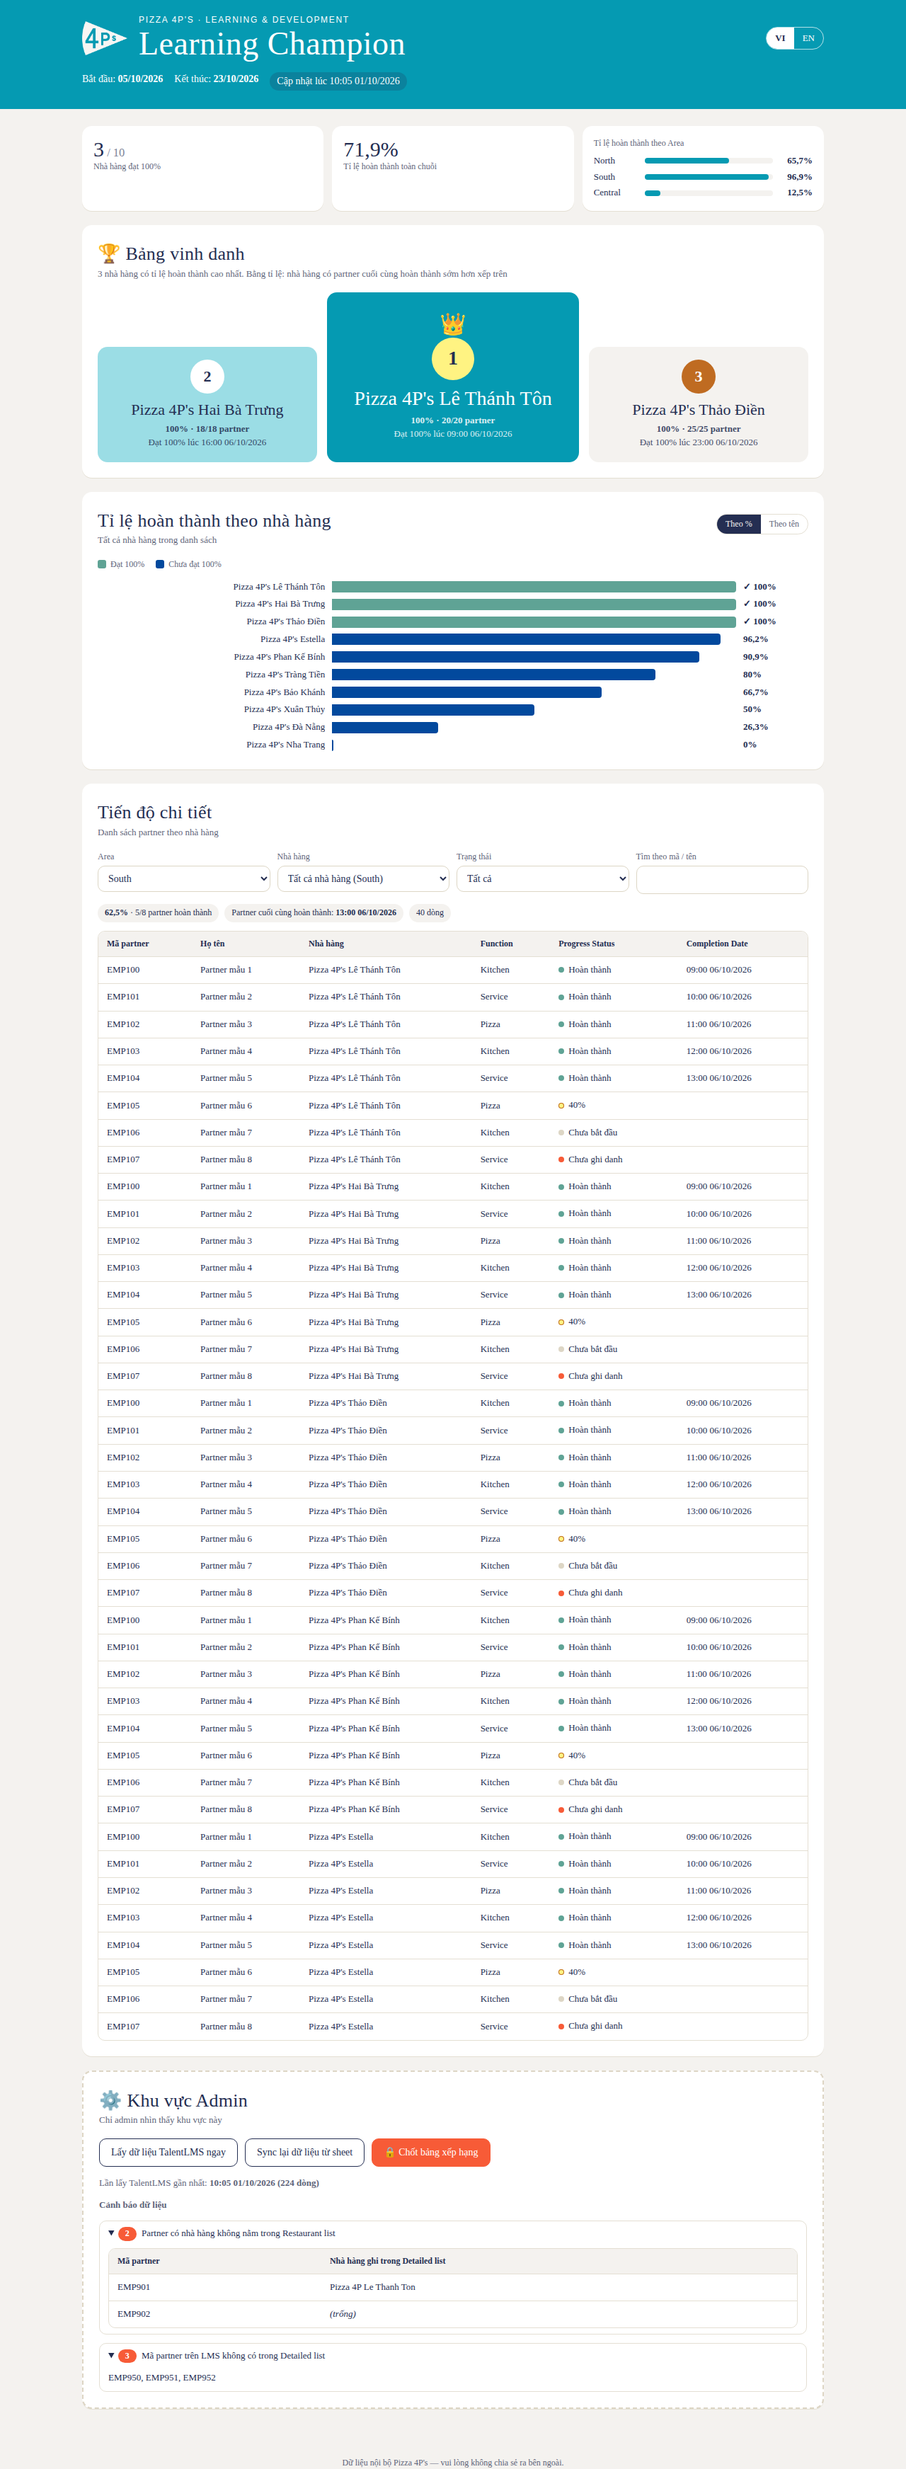
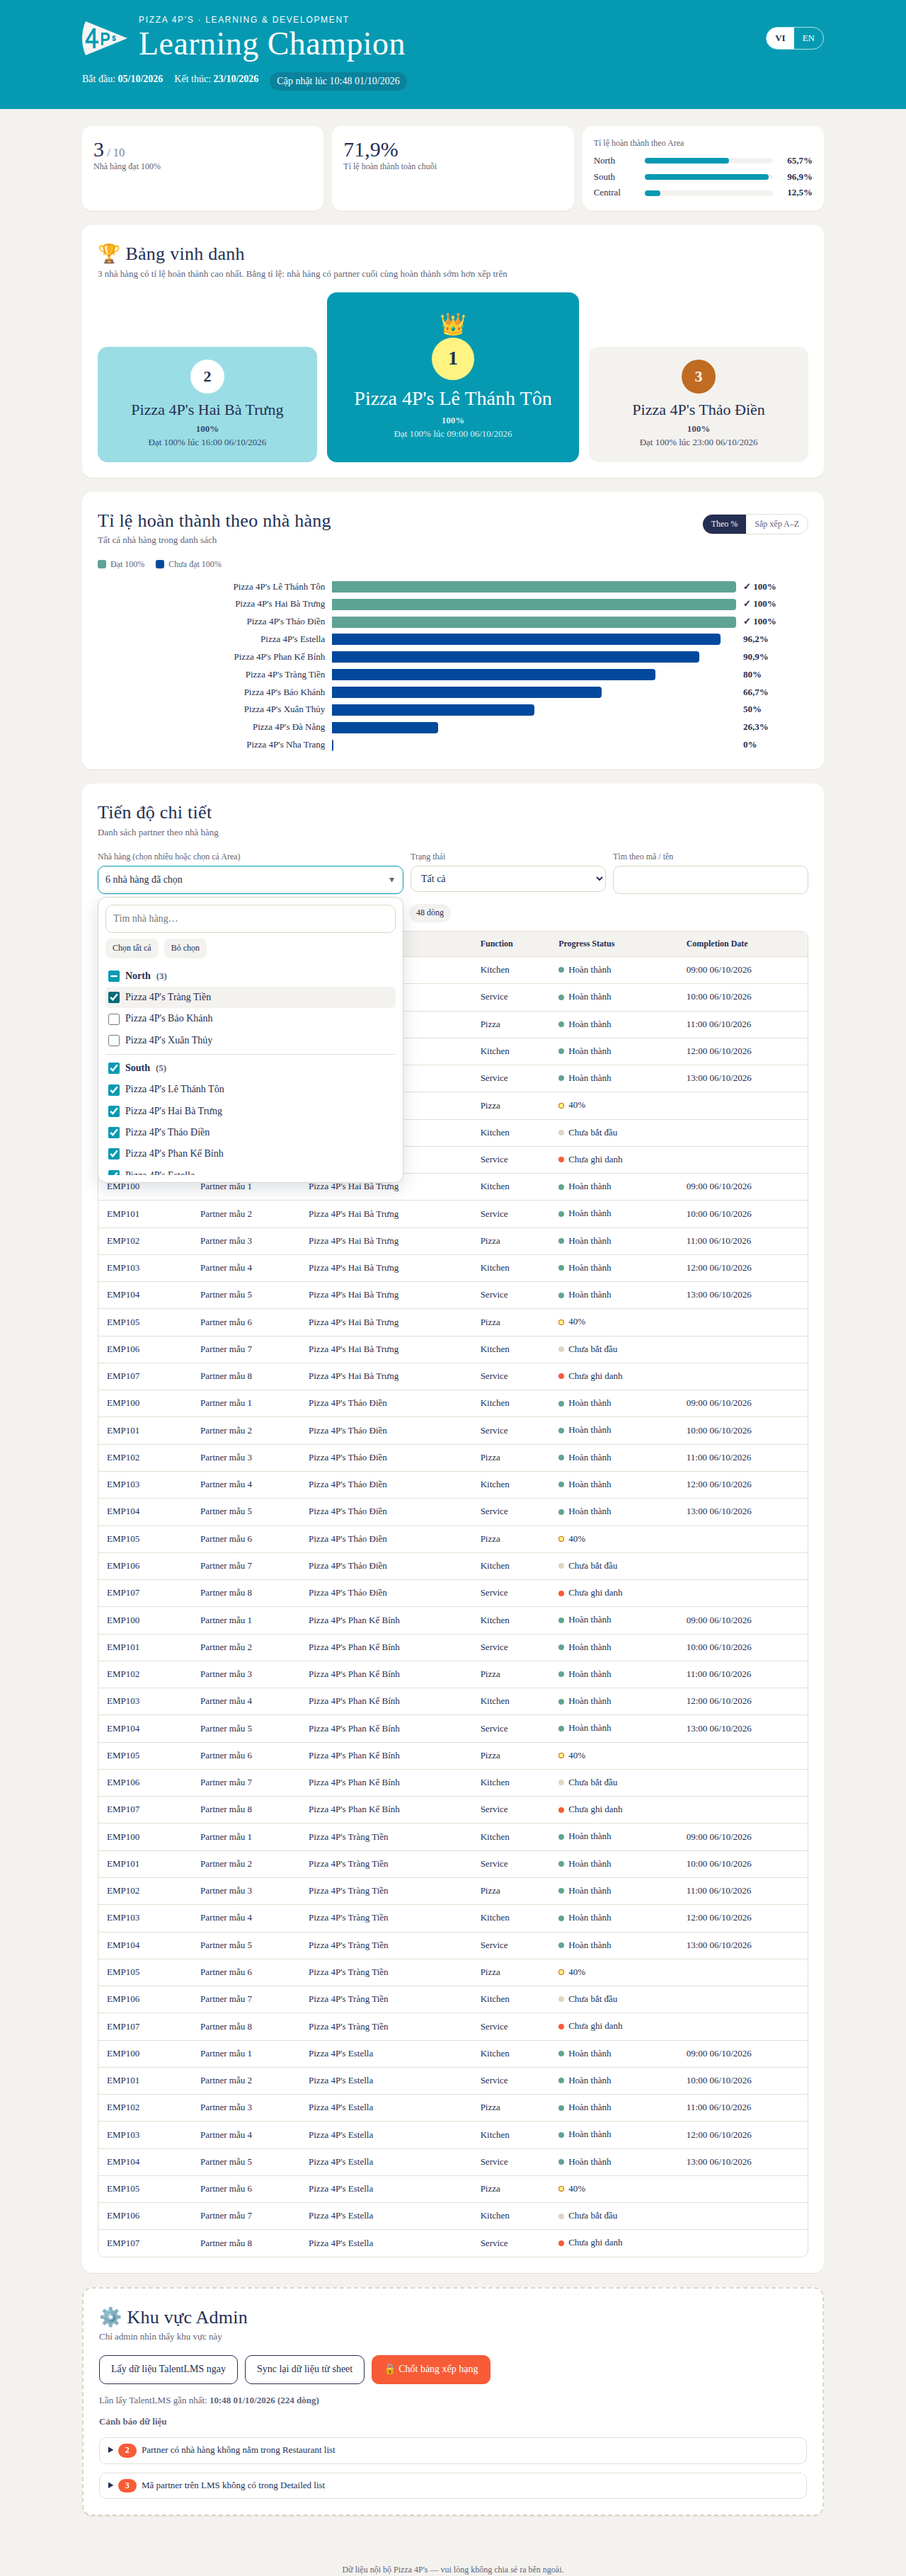
UI: one-line mobile header, % only on podium, A-Z sort label, multi-restaurant picker
- Header title and eyebrow stay on one line on phones; language toggle moves to meta row
- Podium shows completion % and last completion time only
- Chart sort buttons: 'Theo %' / 'Sắp xếp A–Z'
- Detail section: multi-select restaurants grouped by Area (tick an Area to select all its restaurants), search, select all/clear

Claude-Session: https://claude.ai/code/session_01ATpJAqPQi6Zqc39BMgB4D3

diff --git a/apps-script/Index.html b/apps-script/Index.html
@@ -55,6 +55,7 @@
   .head-row { display: flex; align-items: center; gap: 16px; }
   .logo { width: 64px; height: auto; flex: none; }
   .titles { flex: 1; min-width: 0; }
+  .eyebrow, header h1 { white-space: nowrap; overflow: hidden; text-overflow: ellipsis; }
   .eyebrow { font-family: var(--font-eyebrow); font-stretch: normal; font-size: 12px; font-weight: 500; letter-spacing: .14em; text-transform: uppercase; }
   header h1 { font-family: var(--font-title); font-size: clamp(30px, 6vw, 46px); line-height: 1.1; }
   .meta { margin-top: 14px; display: flex; flex-wrap: wrap; gap: 8px 16px; font-size: 14px; font-weight: 500; }
@@ -123,6 +124,25 @@
   .filters { display: flex; flex-wrap: wrap; gap: 10px; margin-bottom: 14px; }
   .filters label { display: flex; flex-direction: column; gap: 4px; font-size: 12px; color: var(--muted); flex: 1 1 200px; }
   select, input[type=search] { font: inherit; font-size: 14px; color: var(--ink); padding: 9px 10px; border: 1px solid var(--sand); border-radius: 10px; background: #fff; width: 100%; }
+  .filters .fld { display: flex; flex-direction: column; gap: 4px; font-size: 12px; color: var(--muted); flex: 2 1 280px; }
+  .ms { position: relative; }
+  .ms summary { list-style: none; cursor: pointer; font-size: 14px; color: var(--ink); padding: 9px 32px 9px 10px; border: 1px solid var(--sand); border-radius: 10px; background: #fff; white-space: nowrap; overflow: hidden; text-overflow: ellipsis; position: relative; }
+  .ms summary::-webkit-details-marker { display: none; }
+  .ms summary::after { content: '▾'; position: absolute; right: 12px; top: 50%; transform: translateY(-50%); color: var(--muted); }
+  .ms[open] summary { border-color: var(--cyan); }
+  .ms-panel { position: absolute; z-index: 5; left: 0; right: 0; top: calc(100% + 4px); min-width: 260px; background: #fff; border: 1px solid var(--sand); border-radius: 12px; box-shadow: 0 8px 24px rgba(36,46,82,.15); padding: 10px; color: var(--ink); }
+  .ms-panel input[type=search] { margin-bottom: 8px; }
+  .ms-actions { display: flex; gap: 8px; margin-bottom: 6px; }
+  .ms-actions button { font: inherit; font-size: 12px; border: 0; background: var(--cream); color: var(--navy); padding: 5px 10px; border-radius: 8px; cursor: pointer; }
+  .ms-list { max-height: 300px; overflow: auto; }
+  .ms-group { padding: 4px 0; border-top: 1px solid var(--line); }
+  .ms-group:first-child { border-top: 0; }
+  .filters .ms-area, .filters .ms-item { display: flex; flex-direction: row; flex: none; align-items: center; gap: 8px; font-size: 14px; color: var(--ink); padding: 5px 4px; cursor: pointer; border-radius: 6px; }
+  .ms-area { font-weight: 600; }
+  .ms-item { padding-left: 26px; }
+  .ms-area:hover, .ms-item:hover { background: var(--cream); }
+  .ms-area input, .ms-item input { width: 16px; height: 16px; accent-color: var(--cyan); margin: 0; flex: none; }
+  .ms-single { font-size: 14px; color: var(--ink); padding: 9px 10px; border: 1px solid var(--sand); border-radius: 10px; background: var(--cream); }
   .chips { display: flex; gap: 8px; flex-wrap: wrap; margin-bottom: 12px; }
   .chip { font-size: 12px; padding: 4px 10px; border-radius: 999px; background: var(--cream); }
   .chip b { font-weight: 600; }
@@ -158,7 +178,14 @@
 
   @media (max-width: 720px) {
     header { padding: 16px 0 20px; }
-    .logo { width: 48px; }
+    .logo { width: 44px; }
+    header .wrap { position: relative; }
+    .head-row { gap: 12px; }
+    .lang { position: absolute; right: 16px; bottom: 0; }
+    .lang button { padding: 5px 10px; }
+    header h1 { font-size: clamp(22px, 8.4vw, 40px); }
+    .eyebrow { font-size: clamp(8.5px, 2.75vw, 12px); letter-spacing: .06em; }
+    .meta { padding-right: 96px; }
     section { padding: 16px; }
     .kpis { grid-template-columns: 1fr 1fr; gap: 8px; }
     .kpi-area { grid-column: span 2; }
@@ -213,10 +240,11 @@
       waitingFinal: 'Không có nhà hàng nào đủ điều kiện vinh danh.',
       reached: 'Đạt 100% lúc', lastAt: 'Partner cuối cùng hoàn thành', rankEmpty: 'Còn trống',
       chartTitle: 'Tỉ lệ hoàn thành theo nhà hàng', chartSub: 'Tất cả nhà hàng trong danh sách',
-      sortPct: 'Theo %', sortName: 'Theo tên', legendFull: 'Đạt 100%', legendPart: 'Chưa đạt 100%',
+      sortPct: 'Theo %', sortName: 'Sắp xếp A–Z', legendFull: 'Đạt 100%', legendPart: 'Chưa đạt 100%',
       partners: 'partner', completedOf: 'hoàn thành', noLast: 'Chưa có partner nào hoàn thành',
       detailTitle: 'Tiến độ chi tiết', detailSub: 'Danh sách partner theo nhà hàng',
-      area: 'Area', allAreas: 'Tất cả Area', restaurant: 'Nhà hàng', allInArea: 'Tất cả nhà hàng',
+      restaurant: 'Nhà hàng', restPick: 'Nhà hàng (chọn nhiều hoặc chọn cả Area)', noArea: 'Khác', allSelected: 'Tất cả nhà hàng', nSelected: 'nhà hàng đã chọn',
+      findRest: 'Tìm nhà hàng…', selectAll: 'Chọn tất cả', clearAll: 'Bỏ chọn', pickHint: 'Chọn một hoặc nhiều nhà hàng (hoặc tích tên Area) để xem danh sách partner.',
       course: 'Khóa học', allCourses: 'Tất cả khóa học', status: 'Trạng thái', all: 'Tất cả',
       stDone: 'Đã hoàn thành', stNot: 'Chưa hoàn thành', search: 'Tìm theo mã / tên', choose: '— Chọn nhà hàng —',
       cCode: 'Mã partner', cName: 'Họ tên', cRest: 'Nhà hàng', cFunc: 'Function', cCourse: 'Khóa học', cStatus: 'Progress Status', cDate: 'Completion Date',
@@ -248,10 +276,11 @@
       waitingFinal: 'No restaurant qualified for the podium.',
       reached: 'Reached 100% at', lastAt: 'Last partner completed', rankEmpty: 'Open',
       chartTitle: 'Completion rate by restaurant', chartSub: 'All restaurants in the list',
-      sortPct: 'By %', sortName: 'By name', legendFull: 'Reached 100%', legendPart: 'Below 100%',
+      sortPct: 'By %', sortName: 'Sort A to Z', legendFull: 'Reached 100%', legendPart: 'Below 100%',
       partners: 'partners', completedOf: 'completed', noLast: 'No partner has completed yet',
       detailTitle: 'Detailed progress', detailSub: 'Partners by restaurant',
-      area: 'Area', allAreas: 'All Areas', restaurant: 'Restaurant', allInArea: 'All restaurants',
+      restaurant: 'Restaurant', restPick: 'Restaurants (pick several or a whole Area)', noArea: 'Other', allSelected: 'All restaurants', nSelected: 'restaurants selected',
+      findRest: 'Find a restaurant…', selectAll: 'Select all', clearAll: 'Clear', pickHint: 'Pick one or more restaurants (or tick an Area) to see the partner list.',
       course: 'Course', allCourses: 'All courses', status: 'Status', all: 'All',
       stDone: 'Completed', stNot: 'Not completed', search: 'Search code / name', choose: '— Select a restaurant —',
       cCode: 'Partner code', cName: 'Name', cRest: 'Restaurant', cFunc: 'Function', cCourse: 'Course', cStatus: 'Progress Status', cDate: 'Completion Date',
@@ -273,13 +302,12 @@
     }
   };
 
-  var ALL = '__all__';
   var lang = 'vi';
   try { lang = localStorage.getItem('lc_lang') || 'vi'; } catch (e) {}
   var DATA = null;
   var chartSort = 'pct';
   var detailCache = {};
-  var detailState = { area: '', restaurant: '', course: '', status: '', q: '' };
+  var detailState = { selected: [], course: '', status: '', q: '' };
 
   function t(k) { return (I18N[lang] && I18N[lang][k]) || I18N.vi[k] || k; }
   function esc(s) { return String(s == null ? '' : s).replace(/[&<>"']/g, function (c) { return { '&': '&amp;', '<': '&lt;', '>': '&gt;', '"': '&quot;', "'": '&#39;' }[c]; }); }
@@ -349,10 +377,9 @@
       var r = d.leaderboard[i - 1];
       var crown = i === 1 ? '<div class="crown" aria-hidden="true">👑</div>' : '';
       if (!r) { cells += '<div class="place r' + i + ' empty">' + crown + '<div class="medal">' + i + '</div><div class="rname">' + t('rankEmpty') + '</div><div class="rstat">&nbsp;</div></div>'; continue; }
-      var counts = hasCounts(r) ? ' · ' + r.completed + '/' + r.total + ' ' + t('partners') : '';
       var stat = r.full
-        ? '<b class="num">100%' + counts + '</b><br>' + t('reached') + ' <span class="num">' + fmtDate(r.lastCompletion, true) + '</span>'
-        : '<b class="num">' + fmtPct(r.pct) + counts + '</b>' + (r.lastCompletion ? '<br>' + t('lastAt') + ' <span class="num">' + fmtDate(r.lastCompletion, true) + '</span>' : '');
+        ? '<b class="num">100%</b><br>' + t('reached') + ' <span class="num">' + fmtDate(r.lastCompletion, true) + '</span>'
+        : '<b class="num">' + fmtPct(r.pct) + '</b>' + (r.lastCompletion ? '<br>' + t('lastAt') + ' <span class="num">' + fmtDate(r.lastCompletion, true) + '</span>' : '');
       cells += '<div class="place r' + i + '">' + crown + '<div class="medal">' + i + '</div><div class="rname">' + esc(r.name) + '</div><div class="rstat">' + stat + '</div></div>';
     }
     return '<section>' + head + '<div class="podium">' + cells + '</div></section>';
@@ -394,31 +421,56 @@
     });
   }
 
-  /* ---------- Tiến độ chi tiết ---------- */
-  function allowedRestaurants() {
-    return DATA.detailRestaurants.filter(function (n) {
-      if (!detailState.area) return true;
+  /* ---------- Tiến độ chi tiết (chọn nhiều nhà hàng / cả Area) ---------- */
+  function areaGroups() {
+    var groups = [], idx = {};
+    DATA.detailRestaurants.forEach(function (n) {
       var r = restByName(n);
-      return r && r.area === detailState.area;
+      var a = (r && r.area) || t('noArea');
+      if (!idx.hasOwnProperty(a)) { idx[a] = groups.length; groups.push({ area: a, names: [] }); }
+      groups[idx[a]].names.push(n);
     });
+    var order = ['north', 'south', 'central'];
+    return groups.sort(function (x, y) {
+      var ix = order.indexOf(x.area.toLowerCase()), iy = order.indexOf(y.area.toLowerCase());
+      return (ix === -1 ? 99 : ix) - (iy === -1 ? 99 : iy) || x.area.localeCompare(y.area);
+    });
+  }
+
+  function selLabel() {
+    var sel = detailState.selected;
+    if (!sel.length) return t('choose');
+    if (sel.length === 1) return esc(sel[0]);
+    if (sel.length === DATA.detailRestaurants.length) return t('allSelected') + ' (' + sel.length + ')';
+    var full = areaGroups().filter(function (g) { return g.names.every(function (n) { return sel.indexOf(n) !== -1; }); });
+    if (full.length && full.reduce(function (s, g) { return s + g.names.length; }, 0) === sel.length) {
+      return full.map(function (g) { return esc(g.area); }).join(', ') + ' (' + sel.length + ')';
+    }
+    return sel.length + ' ' + t('nSelected');
   }
 
   function renderDetailShell(d) {
     var head = '<div class="sec-head"><div><h2>' + t('detailTitle') + '</h2><div class="sub">' + t('detailSub') + '</div></div></div>';
     if (!d.detailRestaurants.length) return '<section>' + head + '<div class="locked">🔒 ' + t('locked') + '</div></section>';
-    if (!detailState.restaurant && d.detailRestaurants.length === 1) detailState.restaurant = d.detailRestaurants[0];
+    detailState.selected = detailState.selected.filter(function (n) { return d.detailRestaurants.indexOf(n) !== -1; });
+    if (!detailState.selected.length && d.detailRestaurants.length === 1) detailState.selected = [d.detailRestaurants[0]];
 
-    var areaList = [];
-    d.detailRestaurants.forEach(function (n) { var r = restByName(n); if (r && r.area && areaList.indexOf(r.area) === -1) areaList.push(r.area); });
-    var showArea = d.detailRestaurants.length > 1 && areaList.length > 0;
-    var aOpts = '<option value="">' + t('allAreas') + '</option>' + areaList.map(function (a) {
-      return '<option' + (a === detailState.area ? ' selected' : '') + ' value="' + esc(a) + '">' + esc(a) + '</option>';
+    var multi = d.detailRestaurants.length > 1;
+    var groups = areaGroups();
+    var list = groups.map(function (g) {
+      return '<div class="ms-group">' +
+        (groups.length > 1 || g.names.length > 1 ? '<label class="ms-area"><input type="checkbox" data-area="' + esc(g.area) + '"> ' + esc(g.area) + ' <span class="sub">(' + g.names.length + ')</span></label>' : '') +
+        g.names.map(function (n) {
+          return '<label class="ms-item" data-name="' + esc(n.toLowerCase()) + '"><input type="checkbox" data-rest="' + esc(n) + '"' + (detailState.selected.indexOf(n) !== -1 ? ' checked' : '') + '> ' + esc(n) + '</label>';
+        }).join('') + '</div>';
     }).join('');
+    var picker = multi
+      ? '<details class="ms" id="ms"><summary id="msLabel">' + selLabel() + '</summary><div class="ms-panel">' +
+        '<input type="search" id="msQ" placeholder="' + t('findRest') + '">' +
+        '<div class="ms-actions"><button type="button" id="msAll">' + t('selectAll') + '</button><button type="button" id="msNone">' + t('clearAll') + '</button></div>' +
+        '<div class="ms-list">' + list + '</div></div></details>'
+      : '<div class="ms-single">' + esc(d.detailRestaurants[0]) + '</div>';
 
-    var rests = allowedRestaurants();
-    var rOpts = '<option value="">' + t('choose') + '</option>' +
-      (rests.length > 1 && detailState.area ? '<option value="' + ALL + '"' + (detailState.restaurant === ALL ? ' selected' : '') + '>' + t('allInArea') + ' (' + esc(detailState.area) + ')</option>' : '') +
-      rests.map(function (n) { return '<option' + (n === detailState.restaurant ? ' selected' : '') + ' value="' + esc(n) + '">' + esc(n) + '</option>'; }).join('');
     var cOpts = '<option value="">' + t('allCourses') + '</option>' + d.courses.map(function (c) {
       return '<option' + (c.id === detailState.course ? ' selected' : '') + ' value="' + esc(c.id) + '">' + esc(c.name) + '</option>';
     }).join('');
@@ -427,25 +479,62 @@
     }).join('');
     return '<section>' + head +
       '<div class="filters">' +
-      (showArea ? '<label>' + t('area') + '<select id="fArea">' + aOpts + '</select></label>' : '') +
-      '<label>' + t('restaurant') + '<select id="fRest">' + rOpts + '</select></label>' +
+      '<div class="fld f-wide">' + (multi ? t('restPick') : t('restaurant')) + picker + '</div>' +
       (d.courses.length > 1 ? '<label>' + t('course') + '<select id="fCourse">' + cOpts + '</select></label>' : '') +
       '<label>' + t('status') + '<select id="fStatus">' + sOpts + '</select></label>' +
       '<label>' + t('search') + '<input type="search" id="fQ" value="' + esc(detailState.q) + '"></label>' +
       '</div><div id="detailBody"></div></section>';
   }
 
+  function syncPicker() {
+    var sel = detailState.selected;
+    document.querySelectorAll('#ms [data-rest]').forEach(function (cb) { cb.checked = sel.indexOf(cb.dataset.rest) !== -1; });
+    areaGroups().forEach(function (g) {
+      var cb = document.querySelector('#ms [data-area="' + g.area.replace(/"/g, '\\"') + '"]');
+      if (!cb) return;
+      var n = g.names.filter(function (x) { return sel.indexOf(x) !== -1; }).length;
+      cb.checked = n === g.names.length;
+      cb.indeterminate = n > 0 && n < g.names.length;
+    });
+    var lbl = document.getElementById('msLabel');
+    if (lbl) lbl.innerHTML = selLabel();
+  }
+
+  var loadTimer = null;
+  function selectionChanged() {
+    syncPicker();
+    clearTimeout(loadTimer);
+    loadTimer = setTimeout(loadDetail, 350);
+  }
+
   function bindDetail() {
-    var rest = document.getElementById('fRest');
-    if (!rest) return;
-    var area = document.getElementById('fArea');
-    if (area) area.onchange = function () {
-      detailState.area = area.value;
-      if (detailState.restaurant && allowedRestaurants().indexOf(detailState.restaurant) === -1) detailState.restaurant = '';
-      if (detailState.restaurant === ALL && !detailState.area) detailState.restaurant = '';
-      render();
-    };
-    rest.onchange = function () { detailState.restaurant = rest.value; loadDetail(); };
+    if (!document.getElementById('detailBody')) return;
+    var ms = document.getElementById('ms');
+    if (ms) {
+      ms.addEventListener('change', function (e) {
+        var el = e.target;
+        if (el.dataset.rest) {
+          var i = detailState.selected.indexOf(el.dataset.rest);
+          if (el.checked && i === -1) detailState.selected.push(el.dataset.rest);
+          if (!el.checked && i !== -1) detailState.selected.splice(i, 1);
+        } else if (el.dataset.area) {
+          var g = areaGroups().filter(function (x) { return x.area === el.dataset.area; })[0];
+          g.names.forEach(function (n) {
+            var j = detailState.selected.indexOf(n);
+            if (el.checked && j === -1) detailState.selected.push(n);
+            if (!el.checked && j !== -1) detailState.selected.splice(j, 1);
+          });
+        } else return;
+        selectionChanged();
+      });
+      document.getElementById('msAll').onclick = function () { detailState.selected = DATA.detailRestaurants.slice(); selectionChanged(); };
+      document.getElementById('msNone').onclick = function () { detailState.selected = []; selectionChanged(); };
+      document.getElementById('msQ').oninput = function (e) {
+        var q = e.target.value.trim().toLowerCase();
+        document.querySelectorAll('#ms .ms-item').forEach(function (it) { it.style.display = !q || it.dataset.name.indexOf(q) !== -1 ? '' : 'none'; });
+      };
+      syncPicker();
+    }
     var c = document.getElementById('fCourse');
     if (c) c.onchange = function () { detailState.course = c.value; drawDetail(); };
     document.getElementById('fStatus').onchange = function (e) { detailState.status = e.target.value; drawDetail(); };
@@ -454,23 +543,23 @@
   }
 
   function selectedNames() {
-    if (!detailState.restaurant) return [];
-    return detailState.restaurant === ALL ? allowedRestaurants() : [detailState.restaurant];
+    // Giữ thứ tự theo danh sách nhà hàng
+    return DATA.detailRestaurants.filter(function (n) { return detailState.selected.indexOf(n) !== -1; });
   }
 
   function loadDetail() {
     var names = selectedNames();
     var body = document.getElementById('detailBody');
-    if (!names.length) { body.innerHTML = ''; return; }
+    if (!body) return;
+    if (!names.length) { body.innerHTML = '<div class="locked">' + t('pickHint') + '</div>'; return; }
     var missing = names.filter(function (n) { return !detailCache[n]; });
     if (!missing.length) { drawDetail(); return; }
     body.innerHTML = '<div class="sub">' + t('loading') + '</div>';
-    var key = detailState.restaurant + '|' + detailState.area;
     google.script.run
       .withSuccessHandler(function (map) {
         Object.keys(map).forEach(function (n) { detailCache[n] = map[n]; });
         missing.forEach(function (n) { if (!detailCache[n]) detailCache[n] = []; });
-        if (detailState.restaurant + '|' + detailState.area === key) drawDetail();
+        drawDetail();
       })
       .withFailureHandler(function (err) { body.innerHTML = '<div class="locked">' + (String(err && err.message).indexOf('NO_ACCESS') !== -1 ? t('noAccess') : t('error')) + '</div>'; })
       .getDetails(missing);
@@ -573,6 +662,11 @@
       .getDashboardData();
   }
 
+  // Bấm ra ngoài thì đóng danh sách chọn nhà hàng
+  document.addEventListener('click', function (e) {
+    var ms = document.getElementById('ms');
+    if (ms && ms.open && !ms.contains(e.target)) ms.open = false;
+  });
   document.getElementById('logo').src = window.LOGOS.light;
   document.querySelectorAll('.lang button').forEach(function (b) {
     b.onclick = function () {
